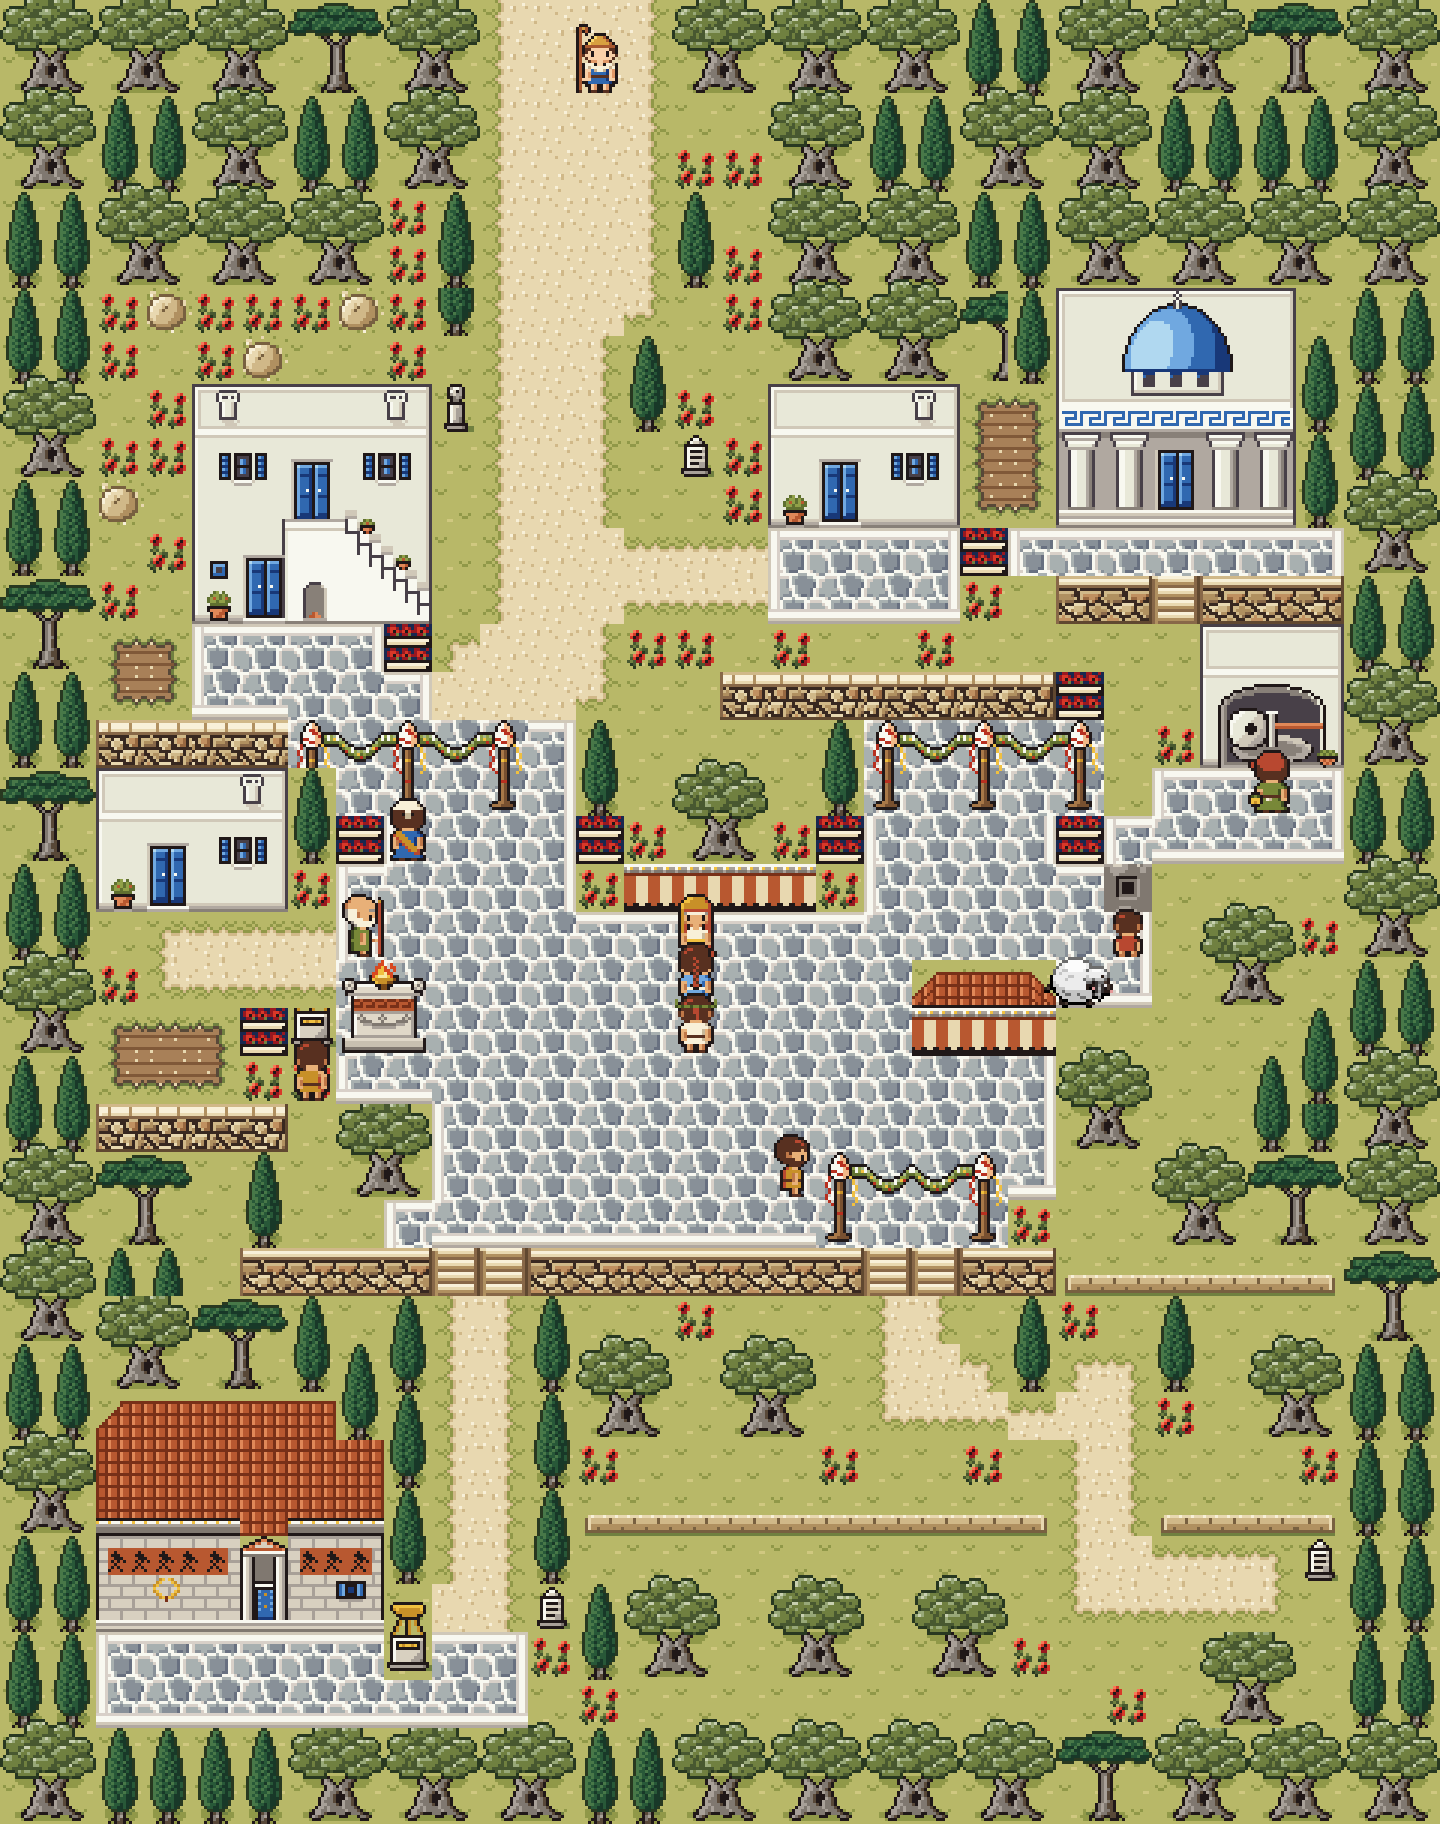
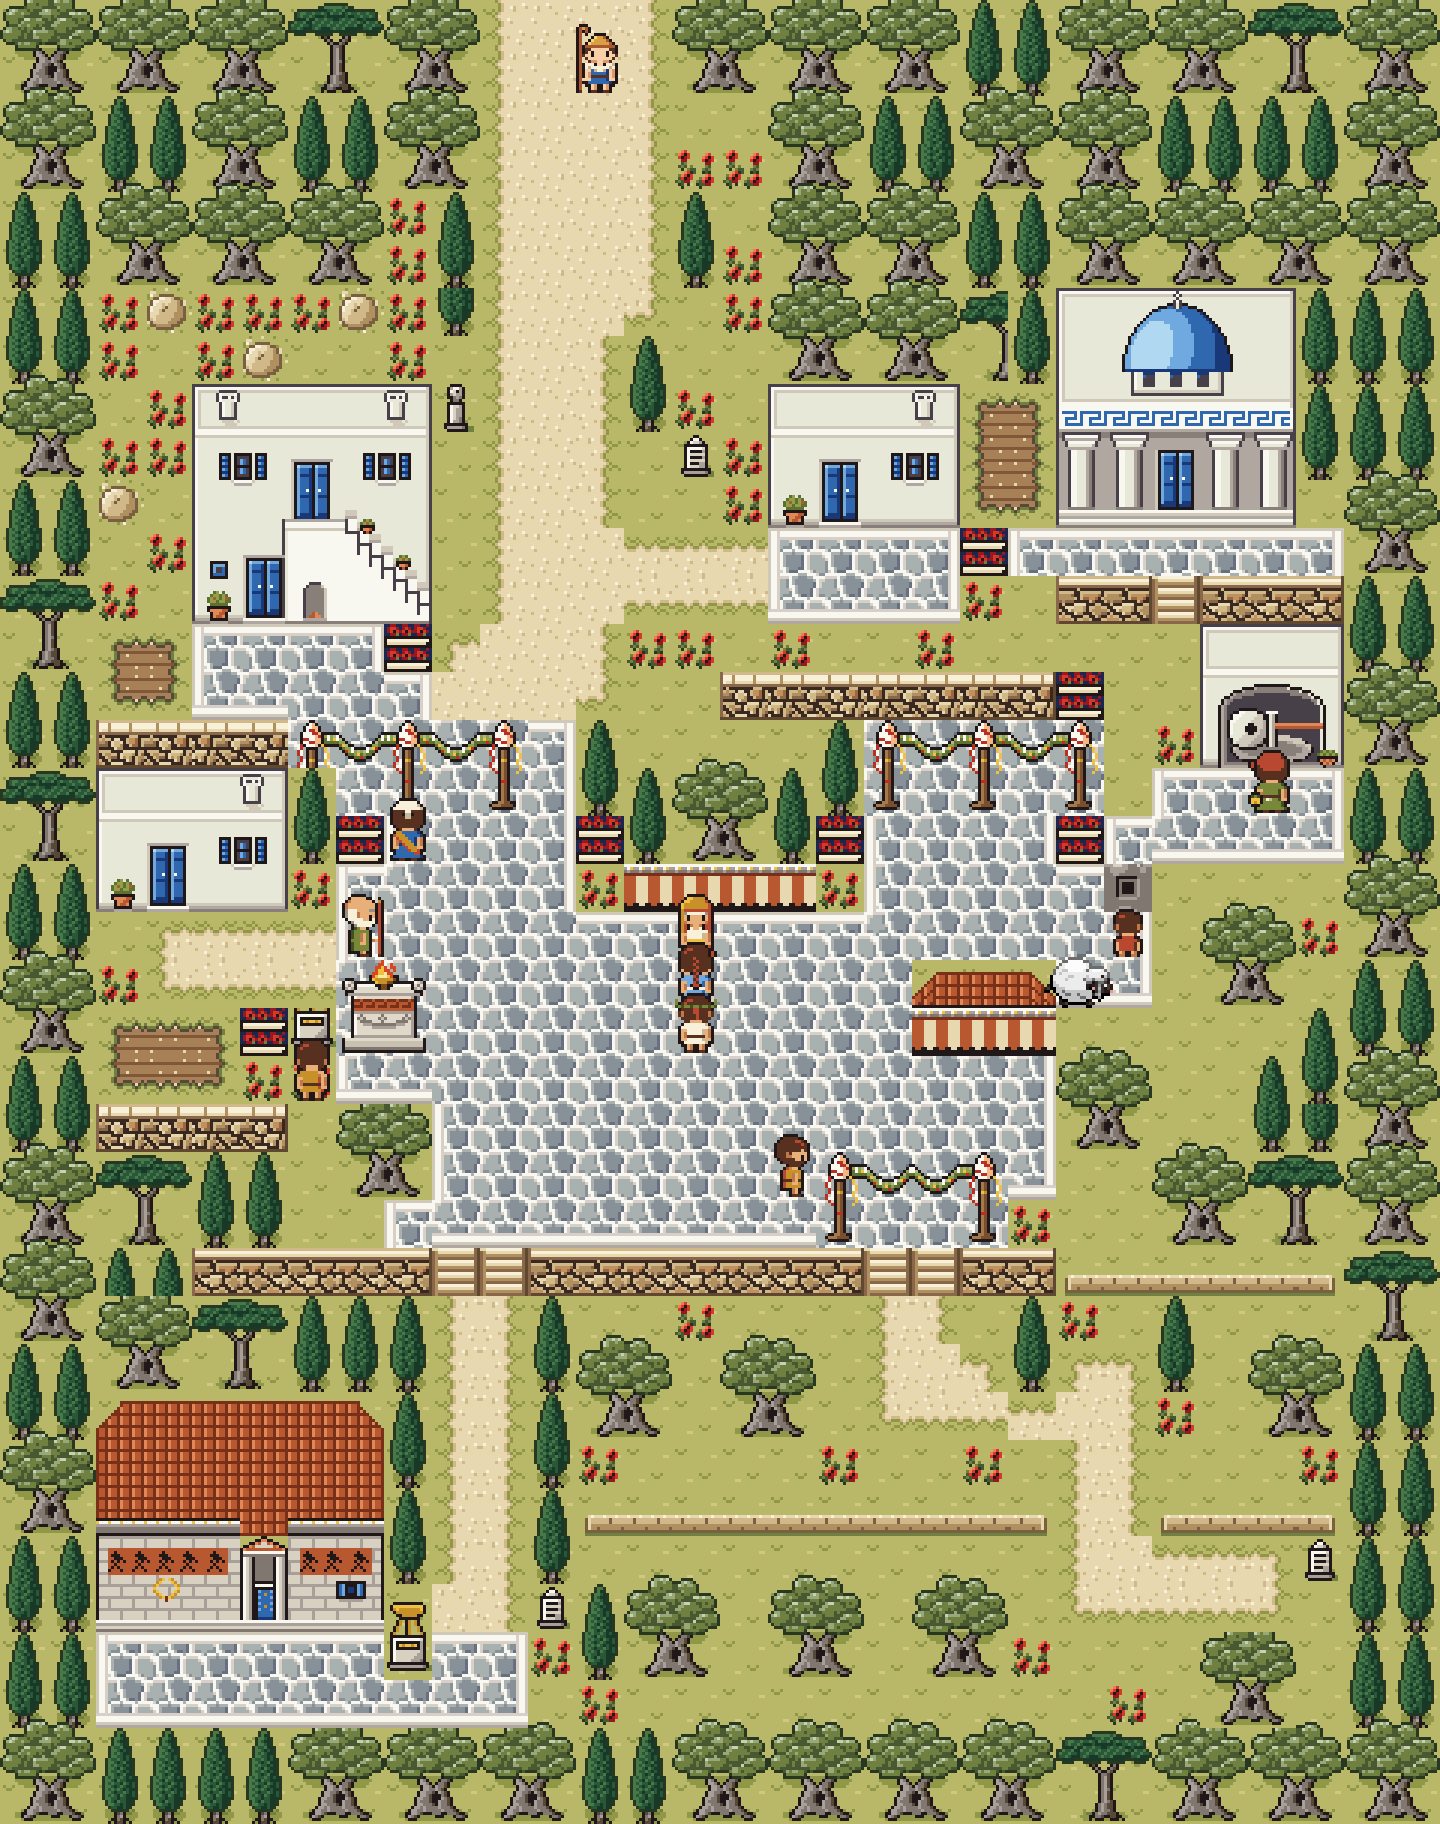
fix(map): open Glykera's honey shelf and Elaia's invisible walls (QA P13, P9)
Glykera stood in the only way into her shelf's corner; she now stands
beside her oven, and the playthrough reads the shelf after the cakes.
Elaia's cells that were drawn as grass but solid are now one or the
other: a second pair of cypresses closes about the old olive's trunk, the
corner behind its crown and the flowers at the canopy's ends are open,
and cypresses fill the gaps by the retaining wall's west end, under the
wall behind the Akademia, and beside the shrine.

diff --git a/tools/ichor/maps/elaia.py b/tools/ichor/maps/elaia.py
@@ -424,8 +424,8 @@ def upper_village(g):
     g.set(22, 10, TROUGH, SOLID, "trough")
     # --- the shrine on its terrace ---
     g.struct("shrine_dome", 22, 2)                            # door (24,6), shut today
-    g.cypress(27, 3)
-    g.cypress(27, 5)
+    g.cypress(27, 2)
+    g.cypress(27, 4)
     g.cypress(21, 2)
     g.rect(21, 7, 27, 7, "pave")                              # its forecourt
     terrace_wall(g, 22, 27, 8, steps=(24,))
@@ -448,8 +448,14 @@ def square(g):
     g.set(17, 13, TROUGH, SOLID, "bed")
     for i, mid in enumerate(AWNING):
         g.set(13 + i, 14, mid, SOLID, "canopy")
-    g.set(12, 14, FLOWERS, SOLID, "bed")
-    g.set(17, 14, FLOWERS, SOLID, "bed")
+    g.cypress(13, 12)                                         # a second pair, close about the trunk
+    g.cypress(16, 12)
+    for x, y in ((13, 11), (14, 11), (15, 11), (16, 11)):    # behind the crown: open, a quiet corner
+        g.solid[y, x] = False
+        if g.kind[y, x] == "bed":
+            g.kind[y, x] = "grass"
+    g.set(12, 14, FLOWERS, WALK, "flowers")                   # at the canopy's ends
+    g.set(17, 14, FLOWERS, WALK, "flowers")
     strand(g, 6, 11, 5)                                       # Klotheia garlands
     strand(g, 18, 11, 5)
     g.struct("altar_square", 7, 16)                           # the festival altar
@@ -472,6 +478,7 @@ def west(g):
     flowers(g, [(5, 18), (6, 18), (2, 16), (6, 14)])
     g.pine(2, 20)
     g.cypress(5, 20)
+    g.cypress(4, 20)
     # the traveling scribe's stool, at the square's west edge by the altar (beats
     # 2-4; scripts.pory takes it away with him). A marble plinth stands in.
     g.set(6, 17, STOOL, SOLID, "stool")
@@ -489,7 +496,7 @@ def east(g):
 
 def lower_terrace(g):
     # the square's retaining wall: steps to the Akademia (west) and the groves (east)
-    terrace_wall(g, 5, 21, 22, steps=(9, 10, 18, 19))
+    terrace_wall(g, 4, 21, 22, steps=(9, 10, 18, 19))
     ledge_row(g, 22, 27, 22)                                  # the orchard drops away over a rougher lip
     finish_arch(g, 17, 20)
     # --- the Akademia in its grove ---
@@ -503,7 +510,7 @@ def lower_terrace(g):
     g.olive(2, 23)
     g.pine(4, 23)
     g.cypress(6, 23)
-    g.cypress(7, 24)
+    g.cypress(7, 23)
     g.block([[TRIPOD[0]], [TRIPOD[1]]], 8, 29, kind="tripod")  # a bronze dedication
     g.set(11, 29, SIGN, SOLID, "sign")                         # THE AKADEMIA
     flowers(g, [(11, 30), (12, 31), (11, 31)])

diff --git a/tools/ichor/maps/elaia_homes.py b/tools/ichor/maps/elaia_homes.py
@@ -80,7 +80,7 @@ HOMES = {
         ],
         "spots": [
             ("warp", "door to Elaia Village (south-arrow mat)", [(6, 7), (7, 7)]),
-            ("npc", "Glykera, at her oven", (2, 4), "north"),
+            ("npc", "Glykera, beside her oven", (1, 3), "south"),
             ("npc", "Kimon, by his chair under the window", (9, 5), "south"),
             ("bg", "the oven (the hearth), right half", (3, 3), (3, 4, "north")),
             ("bg", "honey shelf", (0, 1), (0, 2, "north")),
